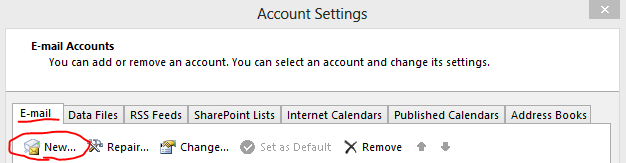
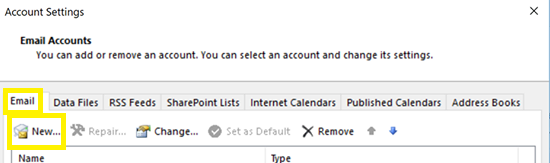
updated outlook images and format

Changed region(s): [[0.0, 0.0, 1.0, 1.0], [0.0309, 0.2147, 0.8036, 0.4294], [0.0, 0.0307, 0.1545, 0.1227]]

diff --git a/docs/email-outlook.md b/docs/email-outlook.md
@@ -9,7 +9,8 @@
 ![step-3]
 
 4. Now choose POP or IMAP.
-![step-4]
+ 
+	![step-4]
 
 5. Fill in the form as indicated below.
 
@@ -36,15 +37,17 @@ Password: The password to your email address.
 ![step-6]
 
 7. Click Ok and click on the Test Account settings button. If everything is ok, then click Next to complete the setup. If you fail to send the test message, continue to step 7.
-![step-7]
+
+	![step-7]
 
 8. if you failed to send the test message, try changing your outgoing port to our alternative 2525. Some internet service providers do not allow traffic out on port 25 (the default SMTP port) to prevent spam. Changing the port can get around this.
 
 Click on the more settings button again and then click on advanced.
 Change the SMTP port to 2525.
+
 ![step-8]
 
-9. Setup is now complete and email should start syncing.
+Setup is now complete and email should start syncing.
 
 [step-1]: https://raw.githubusercontent.com/GearHost/docs/master/Images/email-outlook-step1.png
 [step-2]: https://raw.githubusercontent.com/GearHost/docs/master/Images/email-outlook-step2.png
